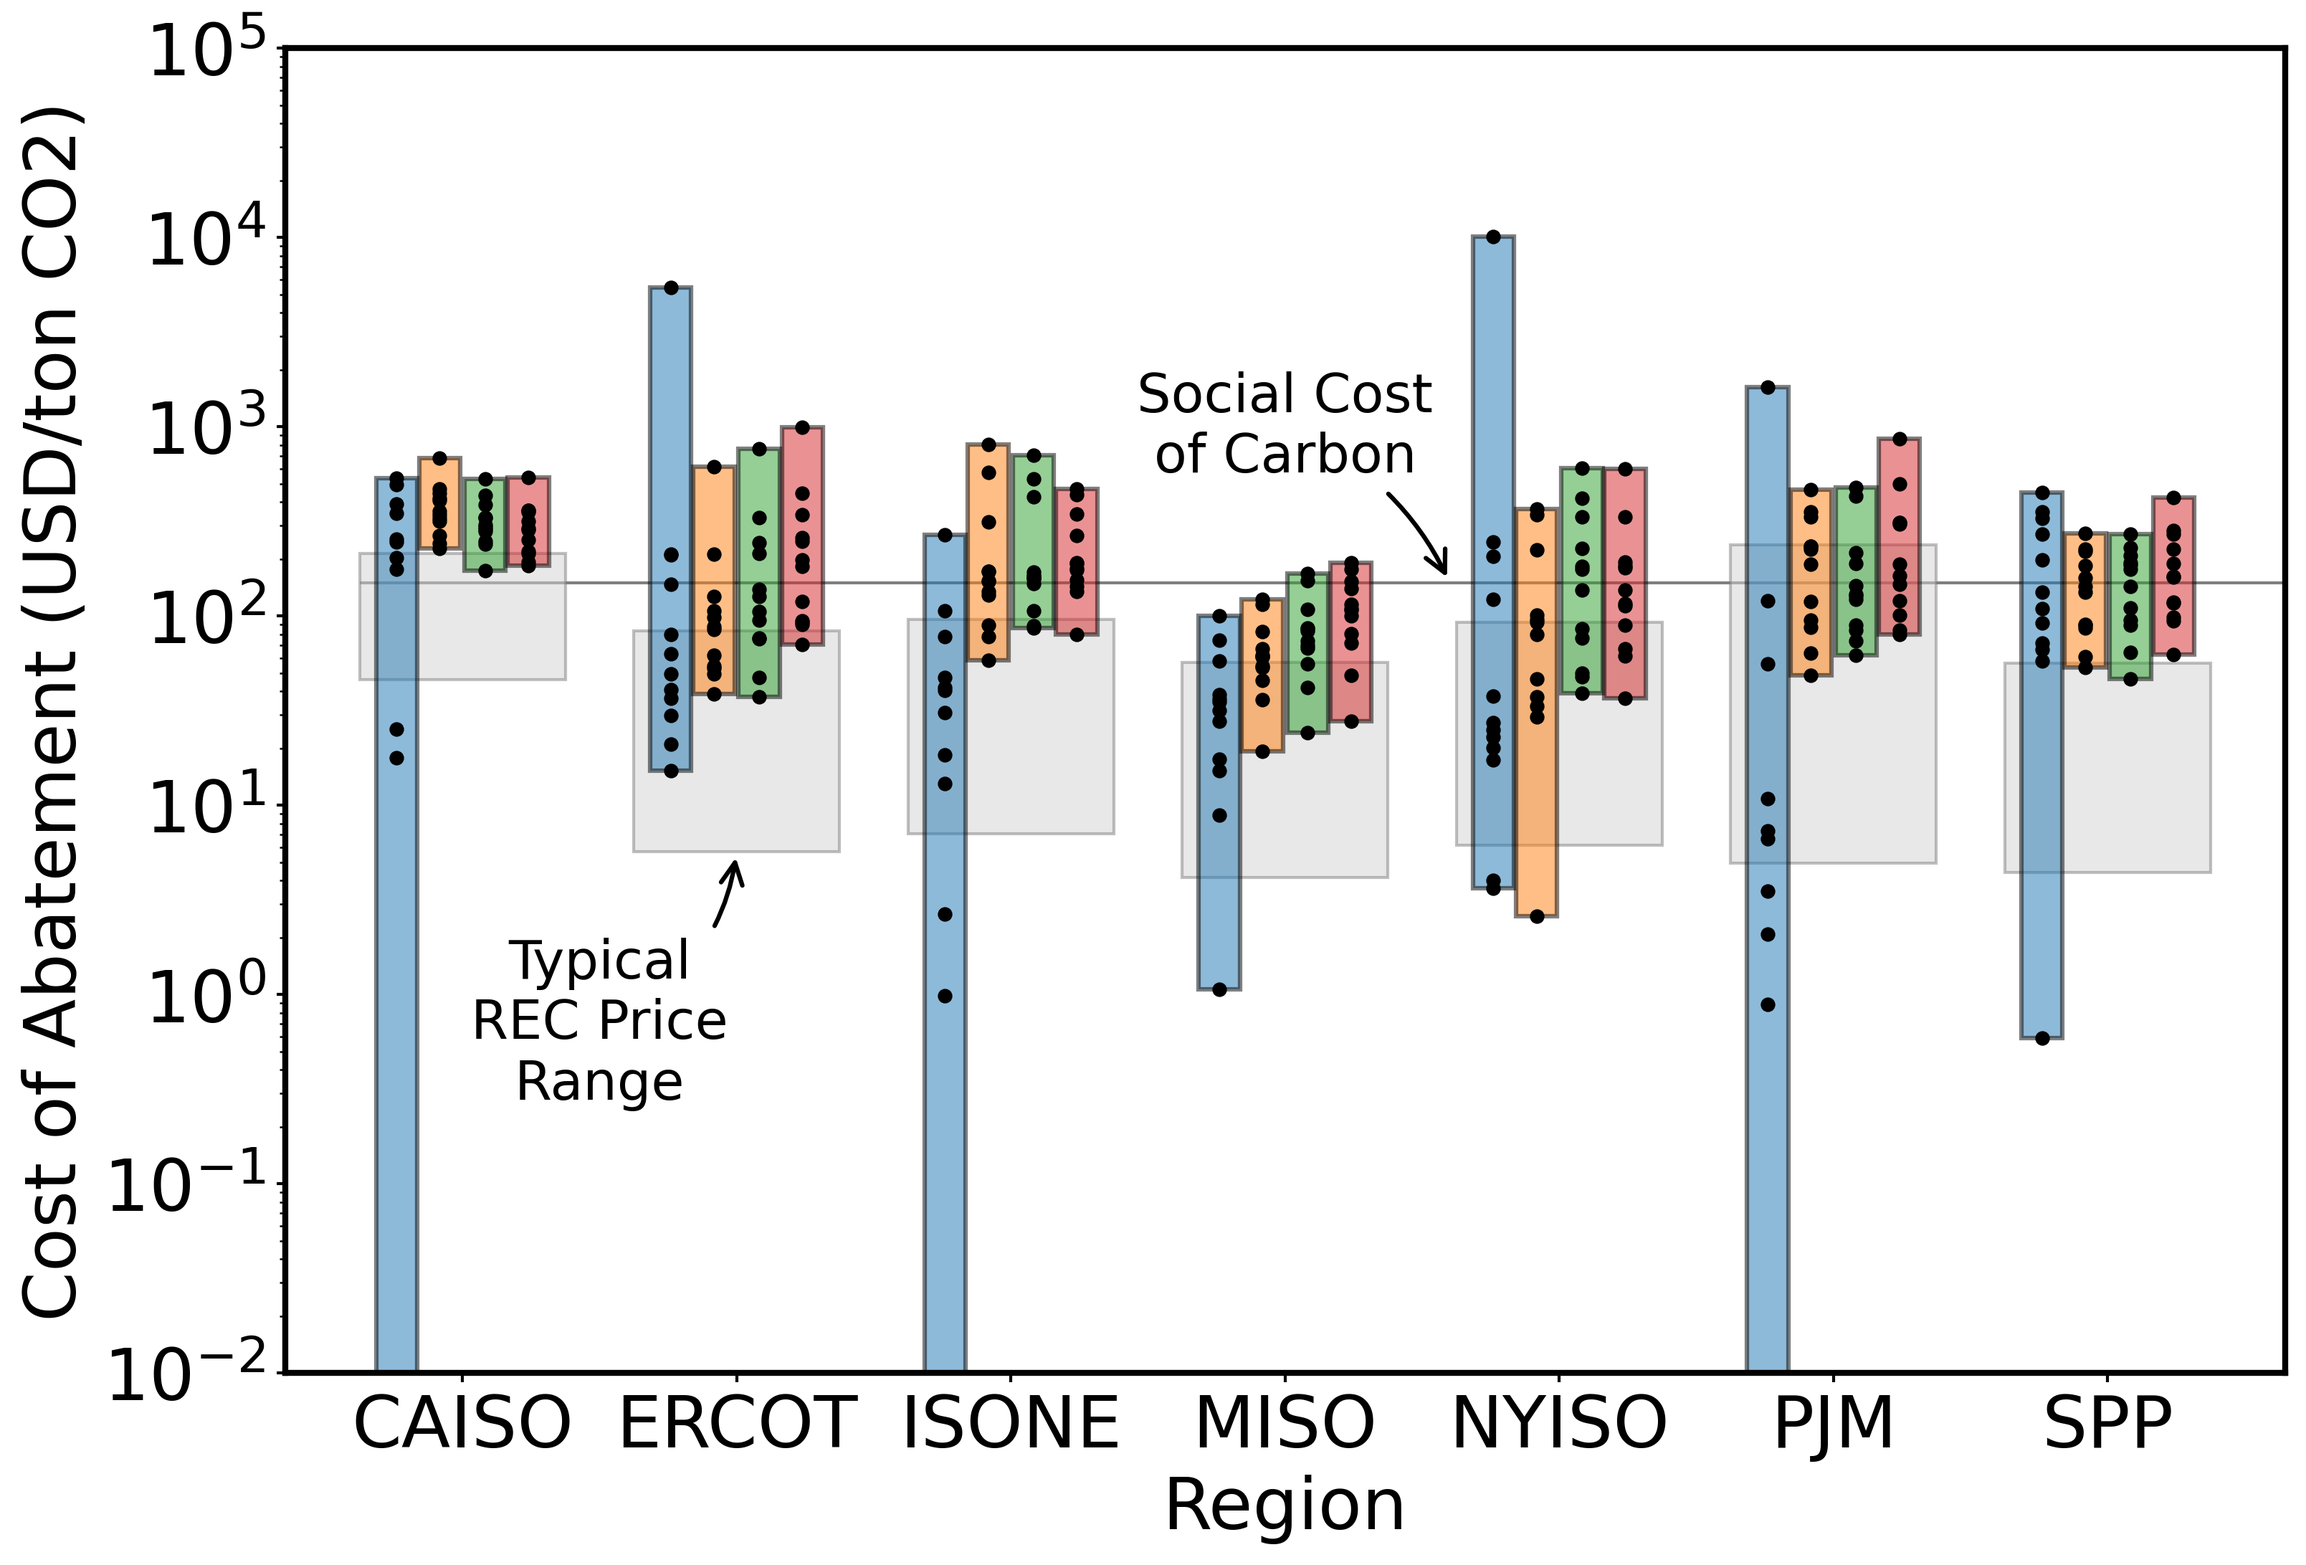
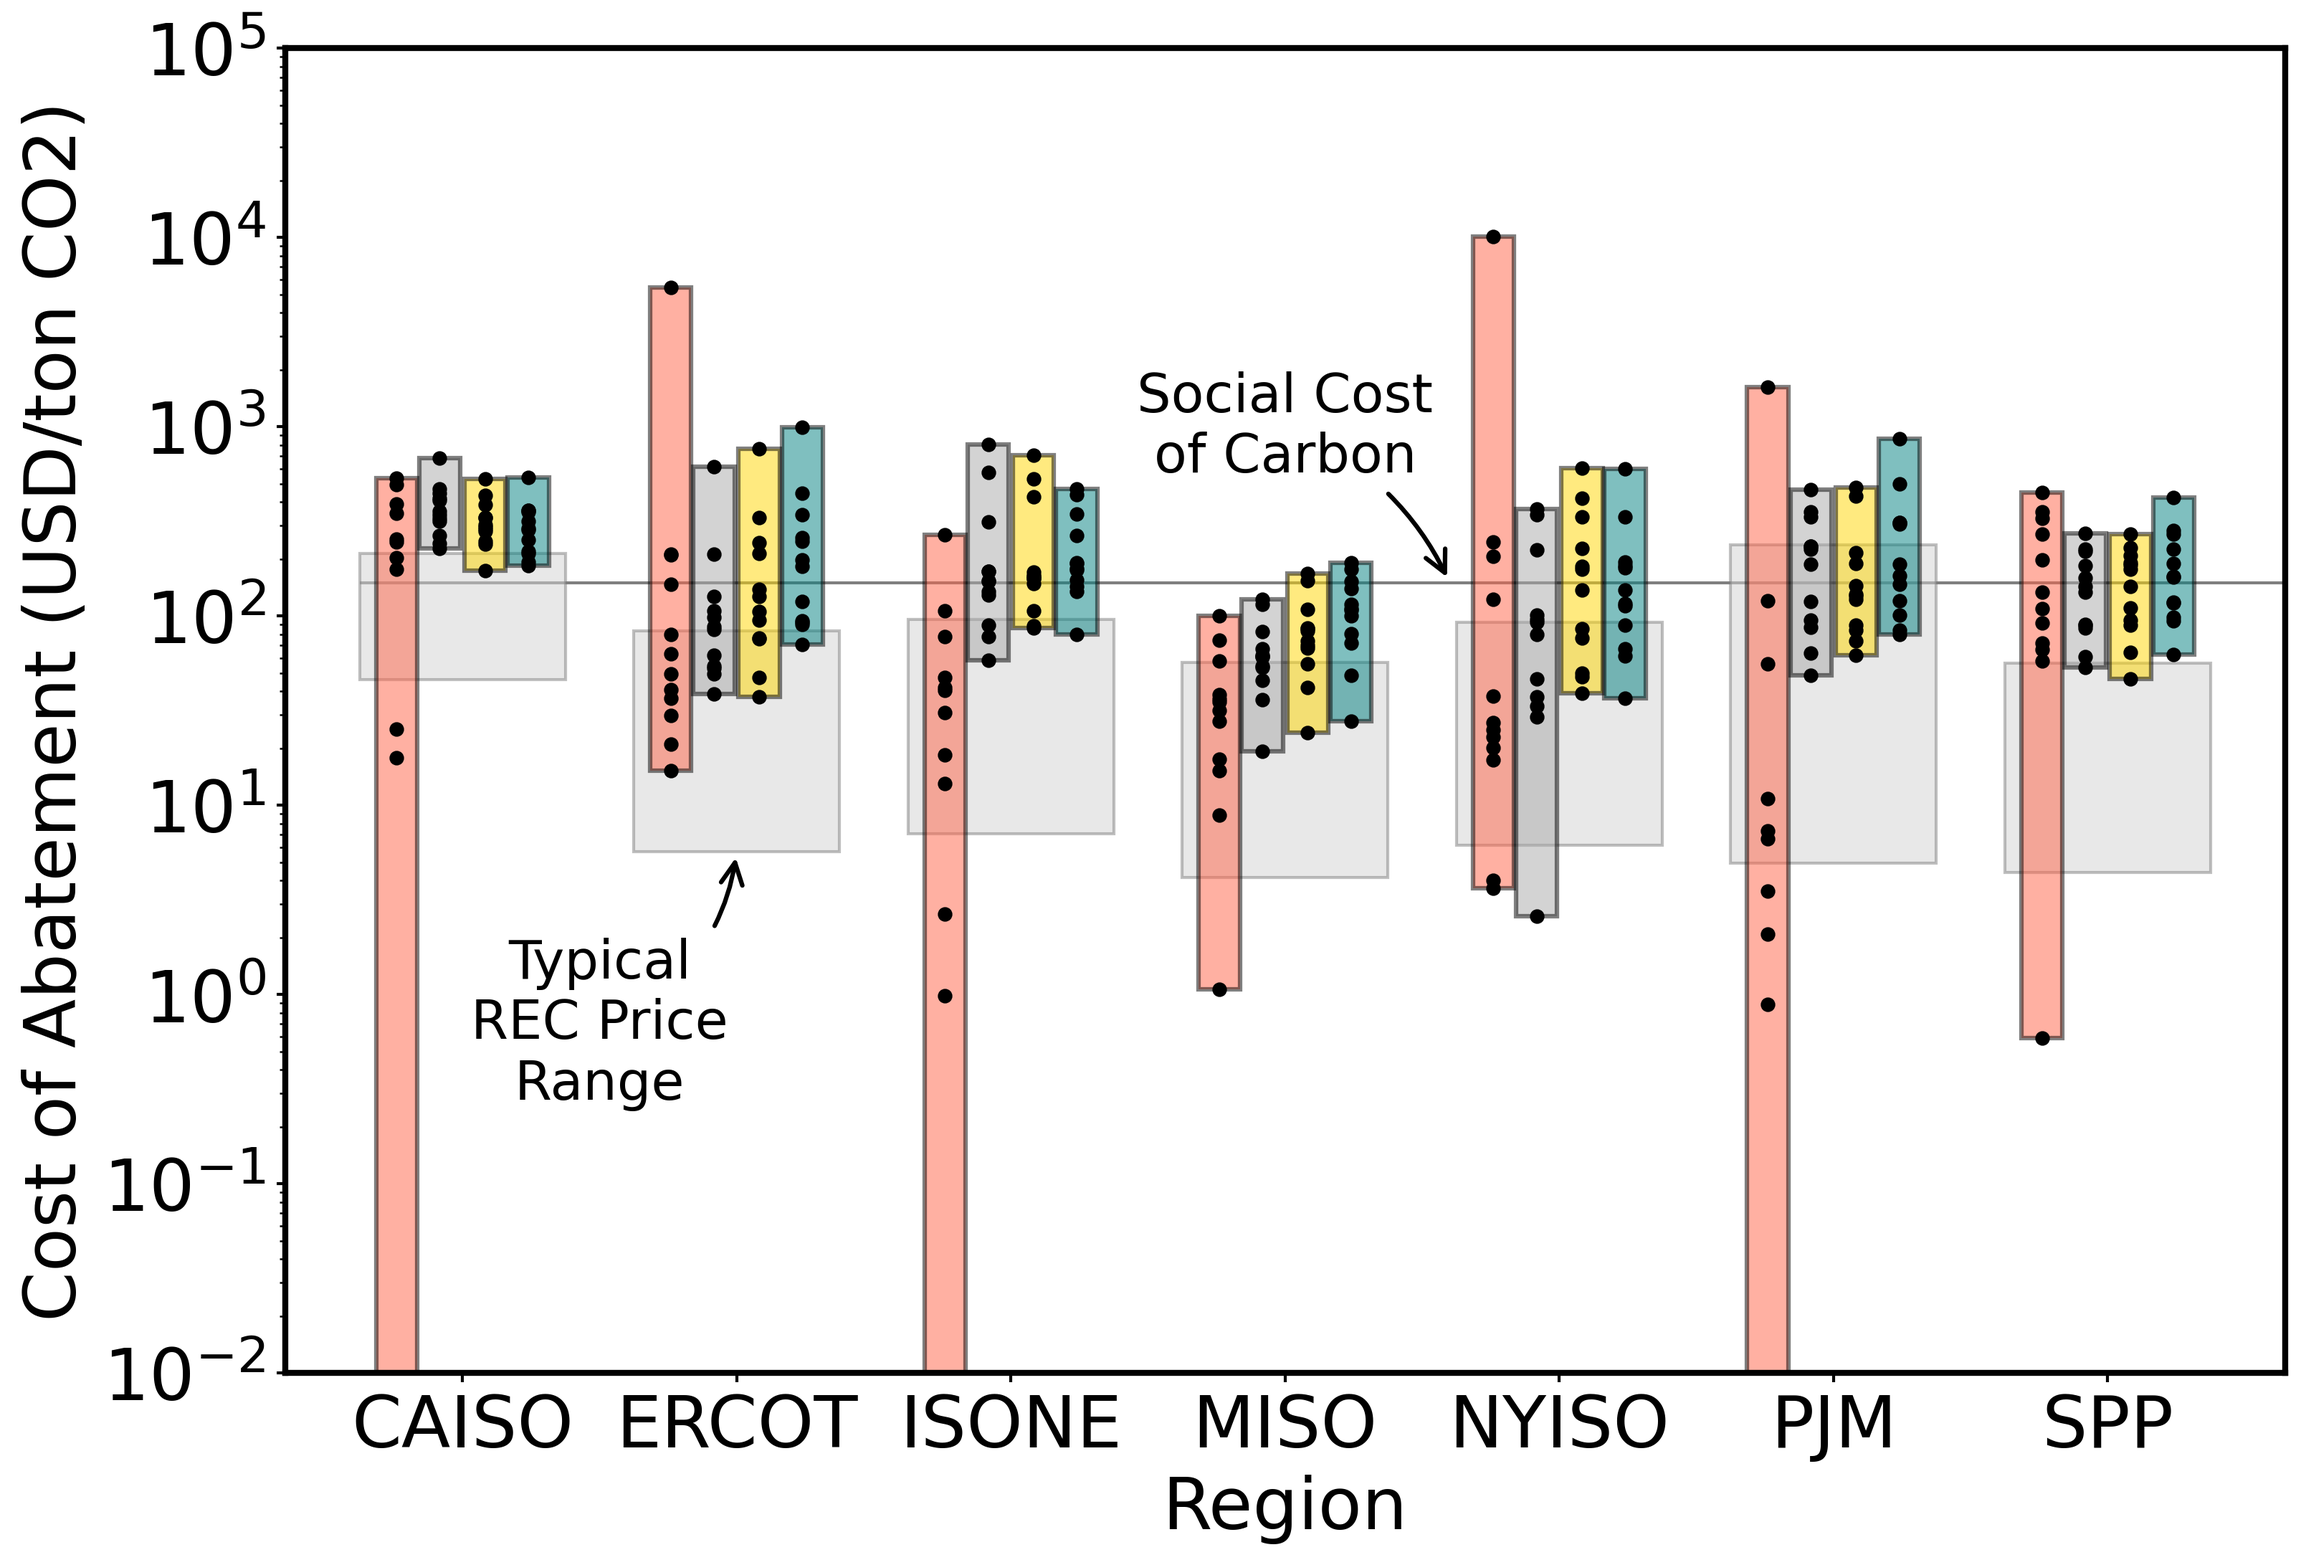
Updating colors for each system in shadowcost boxplot

diff --git a/paper_figures/code/shadowcostwholesale_boxplot.py b/paper_figures/code/shadowcostwholesale_boxplot.py
@@ -98,7 +98,7 @@ fig, ax = plt.subplots(figsize=(12, 8))
 width = 0.15
 
 offset = [-width * 1.6, -width * 0.55, width * 0.55, width * 1.6]  # Offset for each system's shadow price for better visibility
-colors = ["#1f77b4", "#ff7f0e", "#2ca02c", "#d62728"]  # Colors for each system
+colors= ["#FF6347", "#A9A9A9", "#FFD700", "#008080"]  # Colors for each system
 
 
 ax.set_xlabel("Region")
